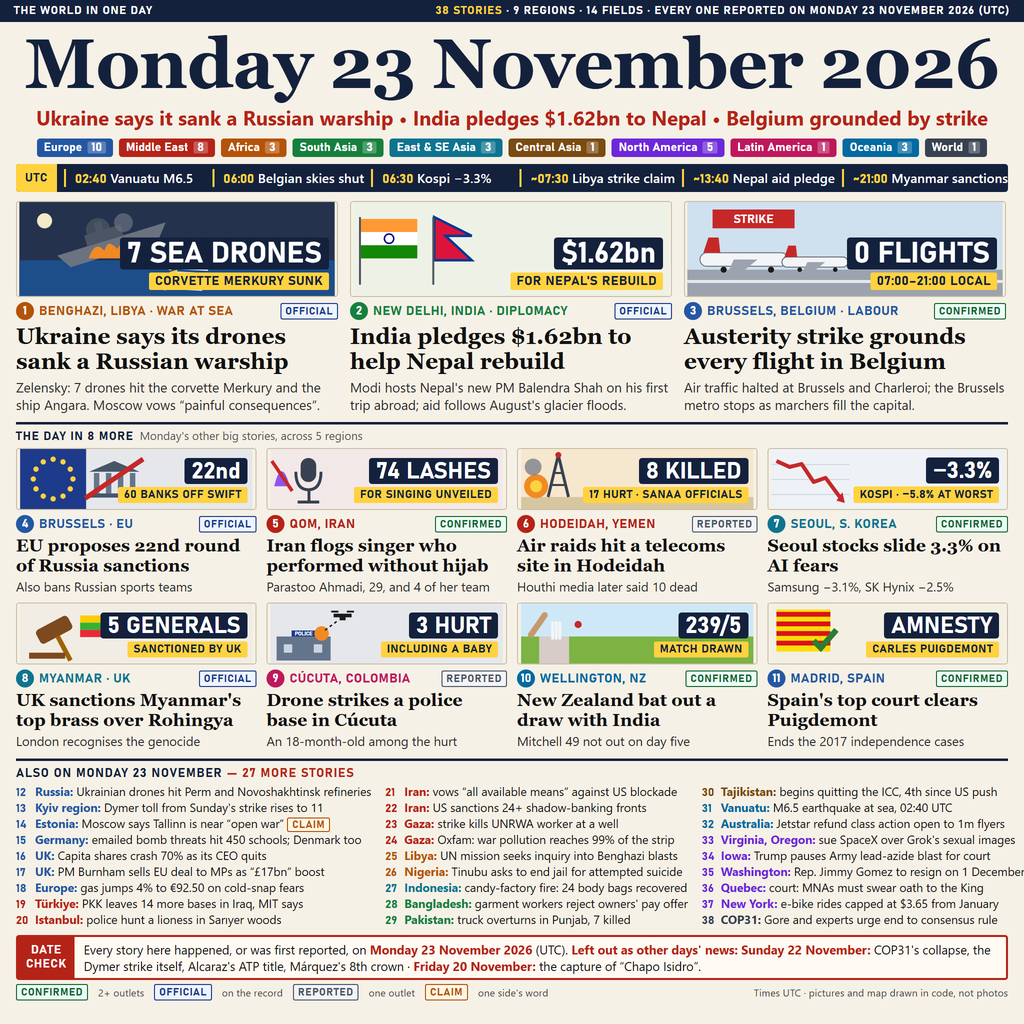
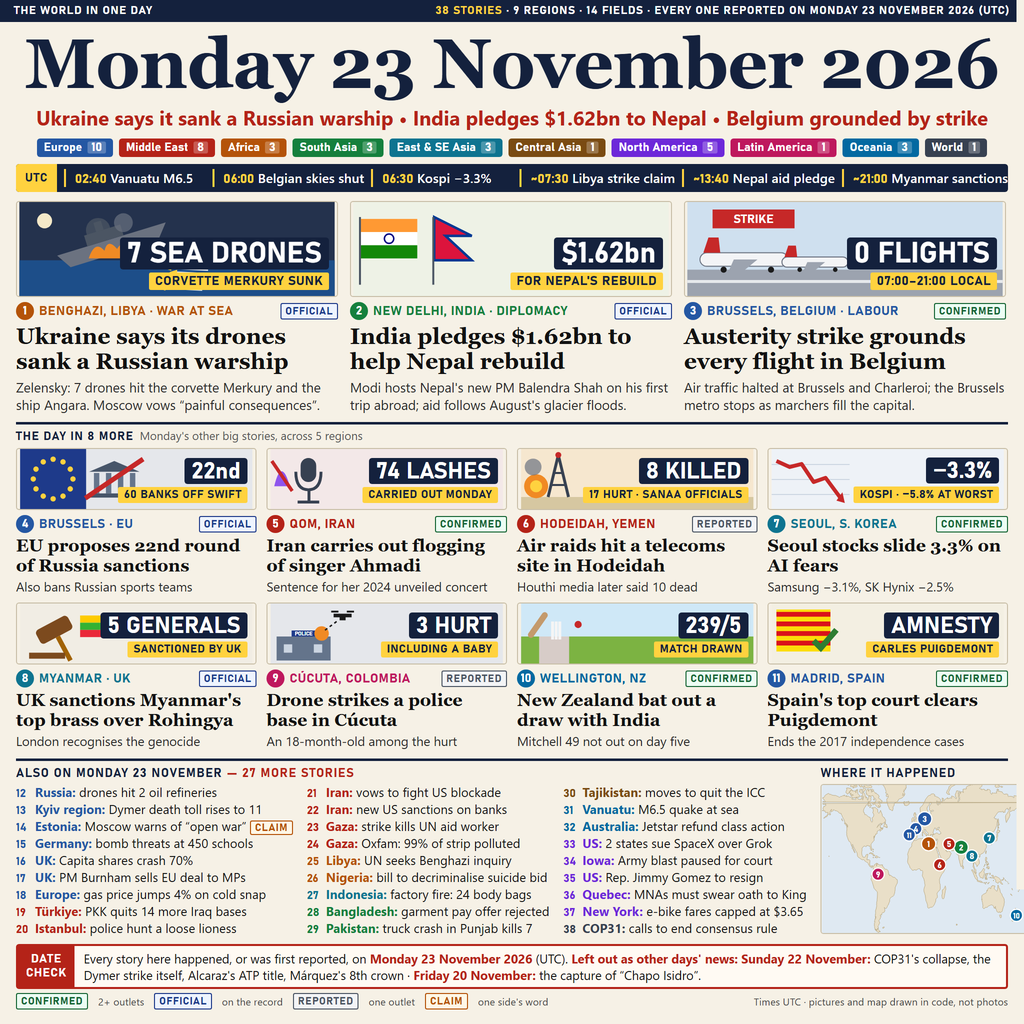
v7: world map beside the short list, 27 shorter briefs in larger type, Iran flogging dated to Monday

diff --git a/tools/stories.py b/tools/stories.py
@@ -49,9 +49,9 @@ CARDS = [
          dek="Also bans Russian sports teams",
          src="AP · Al Jazeera"),
     dict(n=5, region="me", place="QOM, IRAN", field="RIGHTS", tag="CONFIRMED",
-         lon=50.88, lat=34.64, pic="mic", big="74 LASHES", small="FOR SINGING UNVEILED",
-         head="Iran flogs singer who performed without hijab",
-         dek="Parastoo Ahmadi, 29, and 4 of her team",
+         lon=50.88, lat=34.64, pic="mic", big="74 LASHES", small="CARRIED OUT MONDAY",
+         head="Iran carries out flogging of singer Ahmadi",
+         dek="Sentence for her 2024 unveiled concert",
          src="BBC · AFP"),
     dict(n=6, region="me", place="HODEIDAH, YEMEN", field="WAR", tag="REPORTED",
          lon=42.95, lat=14.8, pic="mast", big="8 KILLED", small="17 HURT · SANAA OFFICIALS",
@@ -87,35 +87,35 @@ CARDS = [
 
 # Short items: (n, region, place, text, tag, source)
 BRIEFS = [
-    (14, "eu", "Russia", "Ukrainian drones hit Perm and Novoshakhtinsk refineries", "REPORTED", "Kyiv Independent"),
-    (15, "eu", "Kyiv region", "Dymer toll from Sunday's strike rises to 11", "OFFICIAL", "regional gov."),
-    (16, "eu", "Estonia", "Moscow says Tallinn is near “open war”", "CLAIM", "Russian MFA"),
-    (18, "eu", "Germany", "emailed bomb threats hit 450 schools; Denmark too", "OFFICIAL", "police"),
-    (20, "eu", "UK", "Capita shares crash 70% as its CEO quits", "CONFIRMED", "Guardian"),
-    (21, "eu", "UK", "PM Burnham sells EU deal to MPs as “£17bn” boost", "OFFICIAL", "BBC"),
-    (22, "eu", "Europe", "gas jumps 4% to €92.50 on cold-snap fears", "CONFIRMED", "Guardian"),
-    (19, "eu", "Denmark", "Supreme Court backs “ghetto law” evictions", "CONFIRMED", "Reuters"),
-    (23, "eu", "Rome", "student on hunger strike over housing dies", "REPORTED", "Fanpage"),
-    (24, "me", "Türkiye", "PKK leaves 14 more bases in Iraq, MIT says", "OFFICIAL", "AFP"),
-    (25, "me", "Istanbul", "police hunt a lioness in Sarıyer woods", "CONFIRMED", "AFP · AP"),
-    (26, "me", "Iran", "vows “all available means” against US blockade", "OFFICIAL", "AJ"),
-    (27, "me", "Iran", "US sanctions 24+ shadow-banking fronts", "OFFICIAL", "US Treasury"),
-    (28, "me", "Gaza", "strike kills UNRWA worker at a well", "CONFIRMED", "UNRWA"),
-    (29, "me", "Gaza", "Oxfam: war pollution reaches 99% of the strip", "REPORTED", "Oxfam"),
-    (30, "af", "Libya", "UN mission seeks inquiry into Benghazi blasts", "OFFICIAL", "Guardian"),
-    (31, "af", "Nigeria", "Tinubu asks to end jail for attempted suicide", "REPORTED", "BBC"),
-    (32, "ea", "Indonesia", "candy-factory fire: 24 body bags recovered", "CONFIRMED", "Reuters"),
-    (33, "sa", "Bangladesh", "garment workers reject owners' pay offer", "CONFIRMED", "AJ"),
-    (34, "sa", "Pakistan", "truck overturns in Punjab, 7 killed", "REPORTED", "Xinhua"),
-    (35, "ca", "Tajikistan", "begins quitting the ICC, 4th since US push", "CONFIRMED", "Reuters"),
-    (36, "oc", "Vanuatu", "M6.5 earthquake at sea, 02:40 UTC", "OFFICIAL", "USGS"),
-    (37, "oc", "Australia", "Jetstar refund class action open to 1m flyers", "REPORTED", "Guardian"),
-    (38, "na", "Virginia, Oregon", "sue SpaceX over Grok's sexual images", "CONFIRMED", "AP"),
-    (39, "na", "Iowa", "Trump pauses Army lead-azide blast for court", "OFFICIAL", "AJ"),
-    (40, "na", "Washington", "Rep. Jimmy Gomez to resign on 1 December", "CONFIRMED", "BBC"),
-    (42, "na", "Quebec", "court: MNAs must swear oath to the King", "REPORTED", "AFP"),
-    (43, "na", "New York", "e-bike rides capped at $3.65 from January", "OFFICIAL", "Guardian"),
-    (44, "gl", "COP31", "Gore and experts urge end to consensus rule", "REPORTED", "Guardian"),
+    (14, "eu", "Russia", "drones hit 2 oil refineries", "REPORTED", "Kyiv Independent"),
+    (15, "eu", "Kyiv region", "Dymer death toll rises to 11", "OFFICIAL", "regional gov."),
+    (16, "eu", "Estonia", "Moscow warns of “open war”", "CLAIM", "Russian MFA"),
+    (18, "eu", "Germany", "bomb threats at 450 schools", "OFFICIAL", "police"),
+    (20, "eu", "UK", "Capita shares crash 70%", "CONFIRMED", "Guardian"),
+    (21, "eu", "UK", "PM Burnham sells EU deal to MPs", "OFFICIAL", "BBC"),
+    (22, "eu", "Europe", "gas price jumps 4% on cold snap", "CONFIRMED", "Guardian"),
+    (19, "eu", "Denmark", "court backs “ghetto law” evictions", "CONFIRMED", "Reuters"),
+    (23, "eu", "Rome", "hunger-striking student dies", "REPORTED", "Fanpage"),
+    (24, "me", "Türkiye", "PKK quits 14 more Iraq bases", "OFFICIAL", "AFP"),
+    (25, "me", "Istanbul", "police hunt a loose lioness", "CONFIRMED", "AFP · AP"),
+    (26, "me", "Iran", "vows to fight US blockade", "OFFICIAL", "AJ"),
+    (27, "me", "Iran", "new US sanctions on banks", "OFFICIAL", "US Treasury"),
+    (28, "me", "Gaza", "strike kills UN aid worker", "CONFIRMED", "UNRWA"),
+    (29, "me", "Gaza", "Oxfam: 99% of strip polluted", "REPORTED", "Oxfam"),
+    (30, "af", "Libya", "UN seeks Benghazi inquiry", "OFFICIAL", "Guardian"),
+    (31, "af", "Nigeria", "bill to decriminalise suicide bid", "REPORTED", "BBC"),
+    (32, "ea", "Indonesia", "factory fire: 24 body bags", "CONFIRMED", "Reuters"),
+    (33, "sa", "Bangladesh", "garment pay offer rejected", "CONFIRMED", "AJ"),
+    (34, "sa", "Pakistan", "truck crash in Punjab kills 7", "REPORTED", "Xinhua"),
+    (35, "ca", "Tajikistan", "moves to quit the ICC", "CONFIRMED", "Reuters"),
+    (36, "oc", "Vanuatu", "M6.5 quake at sea", "OFFICIAL", "USGS"),
+    (37, "oc", "Australia", "Jetstar refund class action", "REPORTED", "Guardian"),
+    (38, "na", "US", "2 states sue SpaceX over Grok", "CONFIRMED", "AP"),
+    (39, "na", "Iowa", "Army blast paused for court", "OFFICIAL", "AJ"),
+    (40, "na", "US", "Rep. Jimmy Gomez to resign", "CONFIRMED", "BBC"),
+    (42, "na", "Quebec", "MNAs must swear oath to King", "REPORTED", "AFP"),
+    (43, "na", "New York", "e-bike fares capped at $3.65", "OFFICIAL", "Guardian"),
+    (44, "gl", "COP31", "calls to end consensus rule", "REPORTED", "Guardian"),
 ]
 
 # The day in UTC, for the strip under the date.

diff --git a/tools/build.py b/tools/build.py
@@ -20,9 +20,9 @@ OUT = os.path.join(ROOT, "out")
 TAG_CLASS = {"CONFIRMED": "t-conf", "OFFICIAL": "t-off", "REPORTED": "t-rep", "CLAIM": "t-claim"}
 
 # layout knobs (a variant can override them through the VARIANT environment variable, as JSON)
-K = dict(lead_pic=96, card_pic=62, cards=8, card_cols=4, head_lead=22.5, head_card=17.5, brief_font=11.8,
+K = dict(lead_pic=96, card_pic=62, cards=8, card_cols=4, head_lead=22.5, head_card=17.5, brief_font=12.6,
          briefs=27, brief_cols=3, brief_src=0, dek_lead=13.4, dek_card=12.8, sub_size=20,
-         date_size=70, map=0, map_w=236, map_h=140)
+         date_size=70, map=1, map_side="right", map_w=206, map_h=150)
 K.update(json.loads(os.environ.get("VARIANT", "{}")))
 
 # What this variant shows: the first K['cards'] cards are drawn, the rest drop into the short list;
@@ -244,7 +244,7 @@ h3{{font:700 {K['head_card']}px/1.14 Georgia,serif;margin-top:3px;color:#111}}
 .sec span{{font:400 11.5px "Segoe UI",Arial;color:#555;letter-spacing:0;margin-left:6px}}
 .cards{{display:grid;grid-template-columns:repeat({K['card_cols']},1fr);gap:8px 10px;margin:4px 16px 0}}
 .bottom{{display:flex;gap:14px;margin:9px 16px 0;border-top:2.5px solid #14213d;padding-top:5px}}
-.mapbox{{width:{K['map_w']}px}}
+.mapbox{{width:{K['map_w']}px;flex:none}}
 .mapbox h4,.also h4{{font:700 12.5px Bahnschrift,Arial;letter-spacing:.06em;color:#14213d;margin-bottom:3px}}
 .mapbox h4 span,.also h4 span{{color:#b42318}}
 .mapbox svg{{display:block;border:1px solid #c9bfa8;border-radius:3px}}
@@ -273,9 +273,10 @@ h3{{font:700 {K['head_card']}px/1.14 Georgia,serif;margin-top:3px;color:#111}}
 <div class="sec">THE DAY IN {len(SEL_CARDS)} MORE<span>Monday's other big stories, across {len({s['region'] for s in SEL_CARDS})} regions</span></div>
 <div class="cards">{cards}</div>
 <div class="bottom">
-  {mapbox}
+  {mapbox if K.get('map_side') != 'right' else ''}
   <div class="also"><h4>ALSO ON MONDAY 23 NOVEMBER <span>— {len(SEL_BRIEFS)} MORE STORIES</span></h4>
     <div class="cols">{cols}</div></div>
+  {mapbox if K.get('map_side') == 'right' else ''}
 </div>
 <div class="check"><div class="lab">DATE<br>CHECK</div><div class="txt">Every story here happened, or was first reported, on
   <b>Monday 23 November 2026</b> (UTC). <b>Left out as other days' news:</b> {left}.</div></div>
